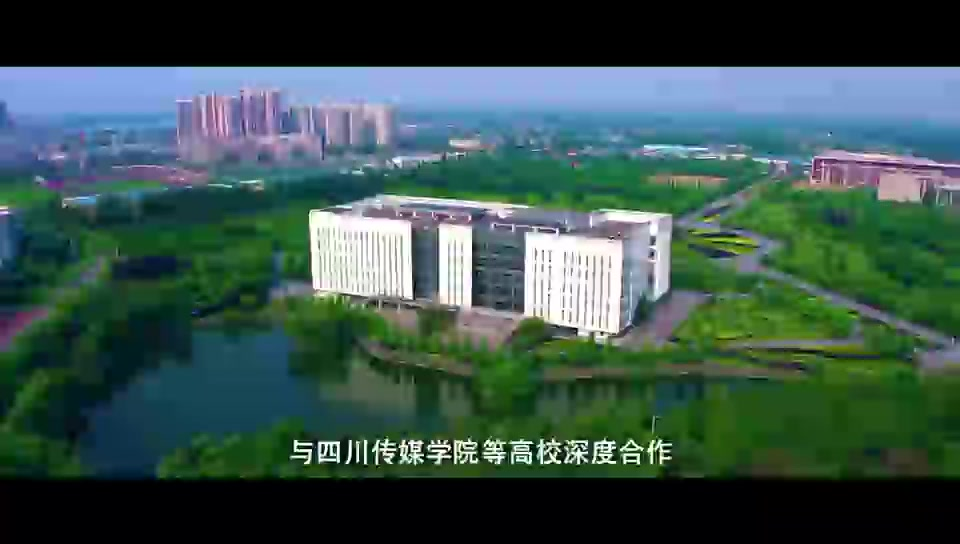
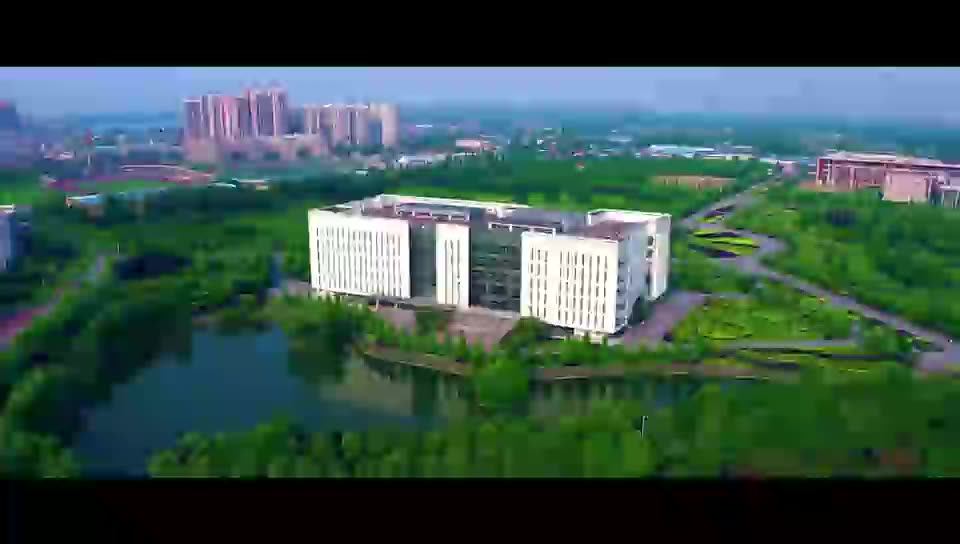
调整第12部作品位置并重新编号

diff --git a/works.html b/works.html
@@ -111,7 +111,7 @@ button.card{font:inherit;cursor:pointer;text-align:left;width:100%}
   </div>
 
   <div class="head">
-    <span class="tag">02</span><h2>作品大厅</h2><span class="note">影片陈列 · 共 11 部</span>
+    <span class="tag">02</span><h2>作品大厅</h2><span class="note">影片陈列 · 共 12 部</span>
   </div>
 
   <!-- 短片 -->
@@ -145,17 +145,21 @@ button.card{font:inherit;cursor:pointer;text-align:left;width:100%}
       <div class="thumb"><img src="assets/work-xin.jpg" alt="未给姐姐寄出的一封信"><span class="num">07</span><span class="play">▶ 播放</span></div>
       <div class="meta"><b>未给姐姐寄出的一封信</b><span><i>MV</i></span></div>
     </button>
+    <button class="card" data-video="assets/videos/v-12.mp4" data-poster="assets/work-chengying.jpg" data-title="成都影视城宣传片">
+      <div class="thumb"><img src="assets/work-chengying.jpg" alt="成都影视城宣传片"><span class="num">08</span><span class="play">▶ 播放</span></div>
+      <div class="meta"><b>成都影视城宣传片</b><span><i>宣传片</i></span></div>
+    </button>
   </div>
 
   <!-- 短剧 / 漫剧 -->
   <div class="sec"><i></i><b>短剧 / 漫剧</b><span>红果 · 腾讯 全集</span></div>
   <div class="grid vgrid">
     <a class="card" href="https://novelquickapp.com/hongguo/ug/pages/video-list-share-ssr?encrypt_did=MDEEDPufQ4xmHMYOmLvdVQQPdqperaGNGw4hh3mnsRbtBBBPJzBX9syQS8xGeluZE%2BTW&ui_exp_group=3&uid=91925ff24a2757643d17cff908ee8147&zlink=https%3A%2F%2Fapplink.novelquickapp.com%2FdVu4P%3FschemeParams%3D%257B%2522video_series_id%2522%253A%25227605160023567649816%2522%252C%2522vs_id_type%2522%253A%25221%2522%252C%2522source%2522%253A%25228%2522%252C%2522module_name%2522%253A%2522share%2522%257D&gd_label=click_schema_lhft_share_novelread_android&use_open_launch_app_novel=1&user_id=768ba18435034007342a981592680ee2&did=91925ff24a2757643d17cff908ee8147&ug_token=%23HG0T-HC6vY8EY%23&source_channel=wechat&share_channel=wechat&entrance=video_player_press&share_token=670862a5-796b-4fd6-a425-41562eb64930" target="_blank" rel="noopener">
-      <div class="thumb poster"><img src="assets/work-mask.jpg" alt="脸谱渡两世，云华共此生"><span class="num">08</span></div>
+      <div class="thumb poster"><img src="assets/work-mask.jpg" alt="脸谱渡两世，云华共此生"><span class="num">09</span></div>
       <div class="meta"><b>脸谱渡两世，云华共此生</b><span><i>短剧</i> · 红果全集</span></div>
     </a>
     <a class="card" href="https://m.v.qq.com/x/m/play?vid=o3267qta0zm&cid=mzc003e1byu724g&ptag=share_11_11&pageStyle=immersive_second_page&pageType=immerse&url_from=share&second_share=0&share_from=copy" target="_blank" rel="noopener">
-      <div class="thumb poster"><img src="assets/work-revive.jpg" alt="全军无限复活，我无敌"><span class="num">09</span></div>
+      <div class="thumb poster"><img src="assets/work-revive.jpg" alt="全军无限复活，我无敌"><span class="num">10</span></div>
       <div class="meta"><b>全军无限复活，我无敌</b><span><i>漫剧</i> · 腾讯全集</span></div>
     </a>
   </div>
@@ -164,21 +168,12 @@ button.card{font:inherit;cursor:pointer;text-align:left;width:100%}
   <div class="sec"><i></i><b>短视频</b><span>实拍 · 广告短片</span></div>
   <div class="grid vgrid">
     <button class="card" data-video="assets/videos/v-10.mp4" data-poster="assets/work-cp.jpg" data-title="cp 快问快答" data-vertical="1">
-      <div class="thumb"><img src="assets/work-cp.jpg" alt="cp 快问快答"><span class="num">10</span><span class="play">▶ 播放</span></div>
+      <div class="thumb"><img src="assets/work-cp.jpg" alt="cp 快问快答"><span class="num">11</span><span class="play">▶ 播放</span></div>
       <div class="meta"><b>cp 快问快答</b><span><i>短视频</i></span></div>
     </button>
     <button class="card" data-video="assets/videos/v-11.mp4" data-poster="assets/work-nescafe.jpg" data-title="雀巢咖啡" data-vertical="1">
-      <div class="thumb"><img src="assets/work-nescafe.jpg" alt="雀巢咖啡"><span class="num">11</span><span class="play">▶ 播放</span></div>
+      <div class="thumb"><img src="assets/work-nescafe.jpg" alt="雀巢咖啡"><span class="num">12</span><span class="play">▶ 播放</span></div>
       <div class="meta"><b>雀巢咖啡</b><span><i>短视频</i></span></div>
-    </button>
-  </div>
-
-  <!-- 宣传片 -->
-  <div class="sec"><i></i><b>宣传片</b><span>城市形象 · 影视城</span></div>
-  <div class="grid">
-    <button class="card" data-video="assets/videos/v-12.mp4" data-poster="assets/work-chengying.jpg" data-title="成都影视城宣传片">
-      <div class="thumb"><img src="assets/work-chengying.jpg" alt="成都影视城宣传片"><span class="num">12</span><span class="play">▶ 播放</span></div>
-      <div class="meta"><b>成都影视城宣传片</b><span><i>宣传片</i></span></div>
     </button>
   </div>
 </div>
